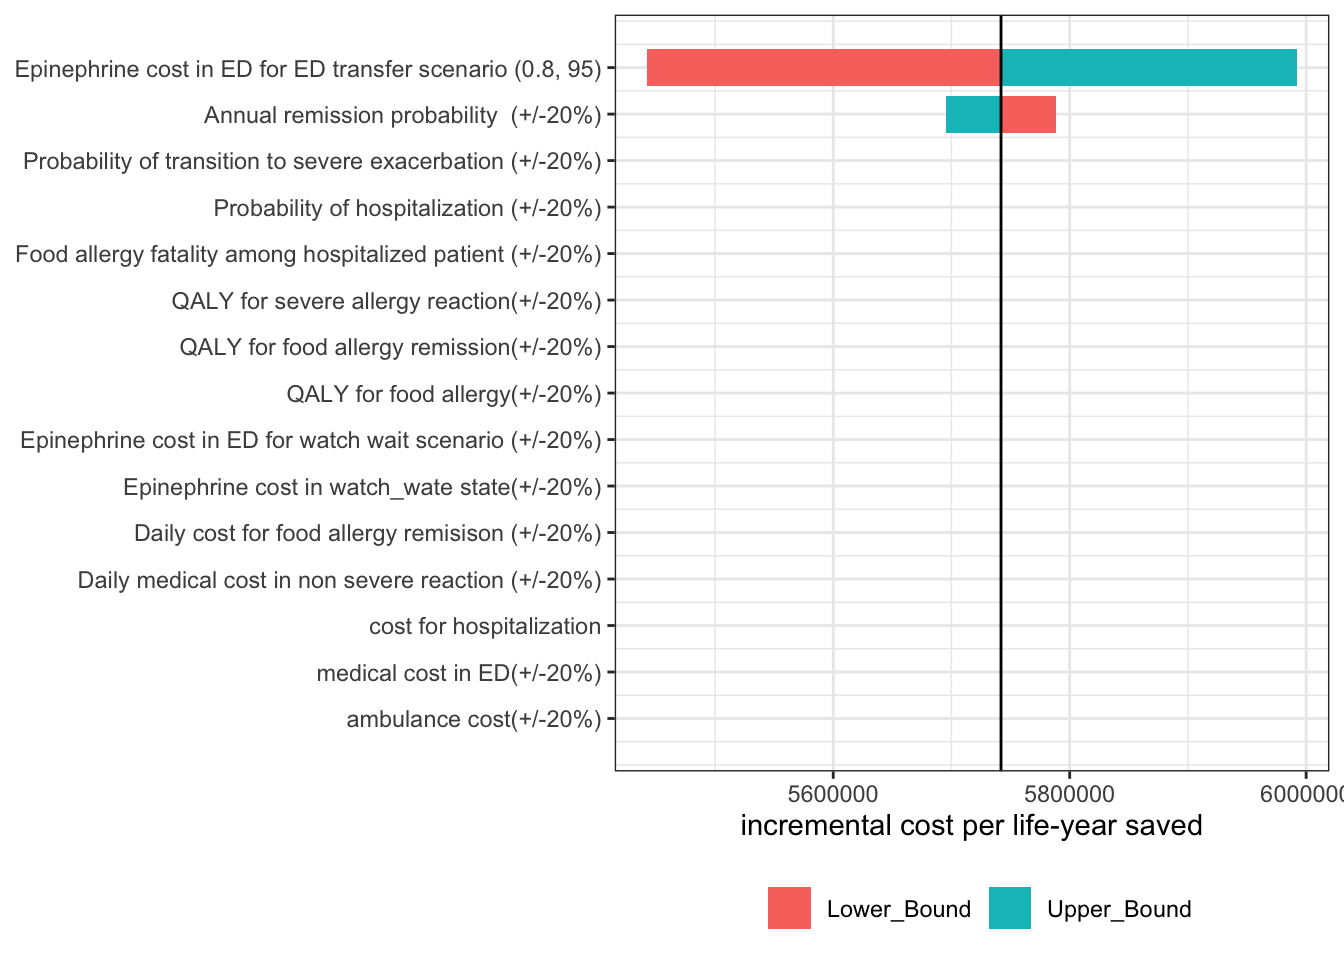
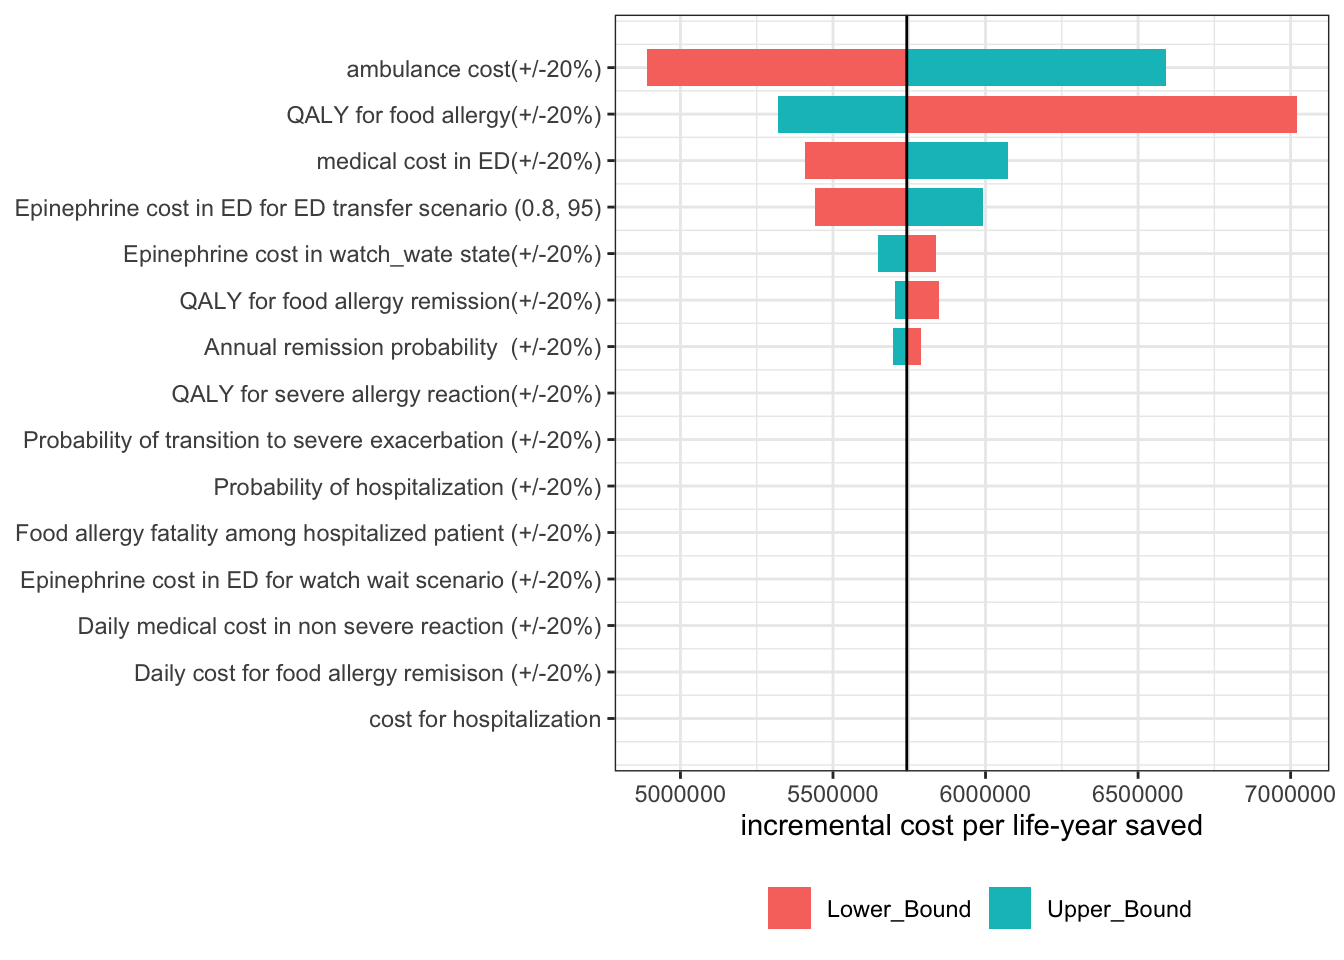
bug fix

diff --git a/Allergy_EAI.html b/Allergy_EAI.html
@@ -330,13 +330,13 @@ The following object is masked from 'package:purrr':
 <span id="cb9-152"><a href="#cb9-152" aria-hidden="true" tabindex="-1"></a></span>
 <span id="cb9-153"><a href="#cb9-153" aria-hidden="true" tabindex="-1"></a><span class="co"># food allergy remission </span></span>
 <span id="cb9-154"><a href="#cb9-154" aria-hidden="true" tabindex="-1"></a>state_ar<span class="ot">&lt;-</span><span class="fu">define_state</span>(</span>
-<span id="cb9-155"><a href="#cb9-155" aria-hidden="true" tabindex="-1"></a>  <span class="at">remission_cost=</span> <span class="dv">513</span><span class="sc">/</span><span class="dv">365</span>,</span>
+<span id="cb9-155"><a href="#cb9-155" aria-hidden="true" tabindex="-1"></a>  <span class="at">remission_cost=</span> remission_cost_all ,</span>
 <span id="cb9-156"><a href="#cb9-156" aria-hidden="true" tabindex="-1"></a>  <span class="at">medical_cost =</span> <span class="dv">0</span>,</span>
 <span id="cb9-157"><a href="#cb9-157" aria-hidden="true" tabindex="-1"></a>  <span class="at">treatment_cost =</span> <span class="dv">0</span>,</span>
 <span id="cb9-158"><a href="#cb9-158" aria-hidden="true" tabindex="-1"></a>  <span class="at">ambulance_cost =</span> <span class="dv">0</span>,</span>
 <span id="cb9-159"><a href="#cb9-159" aria-hidden="true" tabindex="-1"></a>  <span class="at">medical_cost_ED =</span> <span class="dv">0</span>,</span>
 <span id="cb9-160"><a href="#cb9-160" aria-hidden="true" tabindex="-1"></a>  <span class="at">medical_cost_hospitalized =</span><span class="dv">0</span>,</span>
-<span id="cb9-161"><a href="#cb9-161" aria-hidden="true" tabindex="-1"></a>  <span class="at">utility =</span><span class="fl">0.93</span>,</span>
+<span id="cb9-161"><a href="#cb9-161" aria-hidden="true" tabindex="-1"></a>  <span class="at">utility =</span>utility_far,</span>
 <span id="cb9-162"><a href="#cb9-162" aria-hidden="true" tabindex="-1"></a>  <span class="at">cost_total =</span> <span class="fu">discount</span>(remission_cost, <span class="at">r=</span>dr),</span>
 <span id="cb9-163"><a href="#cb9-163" aria-hidden="true" tabindex="-1"></a>  <span class="at">utility_total =</span> <span class="fu">discount</span>(utility, <span class="at">r=</span>dr)</span>
 <span id="cb9-164"><a href="#cb9-164" aria-hidden="true" tabindex="-1"></a>)</span>
@@ -344,12 +344,12 @@ The following object is masked from 'package:purrr':
 <span id="cb9-166"><a href="#cb9-166" aria-hidden="true" tabindex="-1"></a><span class="co"># non-severe reaction</span></span>
 <span id="cb9-167"><a href="#cb9-167" aria-hidden="true" tabindex="-1"></a>state_ns<span class="ot">&lt;-</span><span class="fu">define_state</span>(</span>
 <span id="cb9-168"><a href="#cb9-168" aria-hidden="true" tabindex="-1"></a>  <span class="at">remission_cost=</span> <span class="dv">0</span>,</span>
-<span id="cb9-169"><a href="#cb9-169" aria-hidden="true" tabindex="-1"></a>  <span class="at">medical_cost =</span> <span class="dv">1254</span><span class="sc">/</span><span class="dv">365</span>,</span>
+<span id="cb9-169"><a href="#cb9-169" aria-hidden="true" tabindex="-1"></a>  <span class="at">medical_cost =</span> medical_cost_ns,</span>
 <span id="cb9-170"><a href="#cb9-170" aria-hidden="true" tabindex="-1"></a>  <span class="at">treatment_cost =</span> <span class="dv">0</span>,</span>
 <span id="cb9-171"><a href="#cb9-171" aria-hidden="true" tabindex="-1"></a>  <span class="at">ambulance_cost =</span> <span class="dv">0</span>,</span>
 <span id="cb9-172"><a href="#cb9-172" aria-hidden="true" tabindex="-1"></a>  <span class="at">medical_cost_ED =</span> <span class="dv">0</span>,</span>
 <span id="cb9-173"><a href="#cb9-173" aria-hidden="true" tabindex="-1"></a>  <span class="at">medical_cost_hospitalized =</span><span class="dv">0</span>,</span>
-<span id="cb9-174"><a href="#cb9-174" aria-hidden="true" tabindex="-1"></a>  <span class="at">utility =</span> <span class="fl">0.92</span>,</span>
+<span id="cb9-174"><a href="#cb9-174" aria-hidden="true" tabindex="-1"></a>  <span class="at">utility =</span> utility_fa,</span>
 <span id="cb9-175"><a href="#cb9-175" aria-hidden="true" tabindex="-1"></a>  <span class="at">cost_total =</span> <span class="fu">discount</span>(medical_cost, <span class="at">r=</span>dr),</span>
 <span id="cb9-176"><a href="#cb9-176" aria-hidden="true" tabindex="-1"></a>  <span class="at">utility_total =</span> <span class="fu">discount</span>(utility, <span class="at">r=</span>dr)</span>
 <span id="cb9-177"><a href="#cb9-177" aria-hidden="true" tabindex="-1"></a>)</span>
@@ -357,12 +357,12 @@ The following object is masked from 'package:purrr':
 <span id="cb9-179"><a href="#cb9-179" aria-hidden="true" tabindex="-1"></a><span class="co">#severe allergic reaction-watch and waiting </span></span>
 <span id="cb9-180"><a href="#cb9-180" aria-hidden="true" tabindex="-1"></a>state_sw<span class="ot">&lt;-</span><span class="fu">define_state</span>(</span>
 <span id="cb9-181"><a href="#cb9-181" aria-hidden="true" tabindex="-1"></a>  <span class="at">remission_cost=</span> <span class="dv">0</span>,</span>
-<span id="cb9-182"><a href="#cb9-182" aria-hidden="true" tabindex="-1"></a>  <span class="at">medical_cost =</span> <span class="dv">1254</span><span class="sc">/</span><span class="dv">365</span>,</span>
-<span id="cb9-183"><a href="#cb9-183" aria-hidden="true" tabindex="-1"></a>  <span class="at">treatment_cost =</span> <span class="dv">95</span>,</span>
+<span id="cb9-182"><a href="#cb9-182" aria-hidden="true" tabindex="-1"></a>  <span class="at">medical_cost =</span> medical_cost_ns,</span>
+<span id="cb9-183"><a href="#cb9-183" aria-hidden="true" tabindex="-1"></a>  <span class="at">treatment_cost =</span> treatment_cost_ww,</span>
 <span id="cb9-184"><a href="#cb9-184" aria-hidden="true" tabindex="-1"></a>  <span class="at">ambulance_cost =</span> <span class="dv">0</span>,</span>
 <span id="cb9-185"><a href="#cb9-185" aria-hidden="true" tabindex="-1"></a>  <span class="at">medical_cost_ED =</span> <span class="dv">0</span>,</span>
 <span id="cb9-186"><a href="#cb9-186" aria-hidden="true" tabindex="-1"></a>  <span class="at">medical_cost_hospitalized =</span><span class="dv">0</span>,</span>
-<span id="cb9-187"><a href="#cb9-187" aria-hidden="true" tabindex="-1"></a>  <span class="at">utility =</span> <span class="fl">0.83</span>,</span>
+<span id="cb9-187"><a href="#cb9-187" aria-hidden="true" tabindex="-1"></a>  <span class="at">utility =</span> utility_sr,</span>
 <span id="cb9-188"><a href="#cb9-188" aria-hidden="true" tabindex="-1"></a>  <span class="at">cost_total =</span> <span class="fu">discount</span>(medical_cost<span class="sc">+</span>treatment_cost, <span class="at">r=</span>dr),</span>
 <span id="cb9-189"><a href="#cb9-189" aria-hidden="true" tabindex="-1"></a>  <span class="at">utility_total =</span> <span class="fu">discount</span>(utility, <span class="at">r=</span>dr)</span>
 <span id="cb9-190"><a href="#cb9-190" aria-hidden="true" tabindex="-1"></a>)</span>
@@ -371,14 +371,14 @@ The following object is masked from 'package:purrr':
 <span id="cb9-193"><a href="#cb9-193" aria-hidden="true" tabindex="-1"></a><span class="co">#medical cost =direct cost of food allergy/year+ED medical cost</span></span>
 <span id="cb9-194"><a href="#cb9-194" aria-hidden="true" tabindex="-1"></a>state_sED<span class="ot">&lt;-</span> <span class="fu">define_state</span>(</span>
 <span id="cb9-195"><a href="#cb9-195" aria-hidden="true" tabindex="-1"></a>  <span class="at">remission_cost=</span> <span class="dv">0</span>,</span>
-<span id="cb9-196"><a href="#cb9-196" aria-hidden="true" tabindex="-1"></a>  <span class="at">medical_cost =</span> <span class="dv">1254</span><span class="sc">/</span><span class="dv">365</span>, </span>
+<span id="cb9-196"><a href="#cb9-196" aria-hidden="true" tabindex="-1"></a>  <span class="at">medical_cost =</span> medical_cost_ns, </span>
 <span id="cb9-197"><a href="#cb9-197" aria-hidden="true" tabindex="-1"></a>  <span class="at">treatment_cost =</span> <span class="fu">dispatch_strategy</span>(</span>
 <span id="cb9-198"><a href="#cb9-198" aria-hidden="true" tabindex="-1"></a>    <span class="at">ED_transfer =</span> treatment_cost_ED,</span>
-<span id="cb9-199"><a href="#cb9-199" aria-hidden="true" tabindex="-1"></a>    <span class="at">watch_wait =</span> <span class="fl">0.8</span>),</span>
-<span id="cb9-200"><a href="#cb9-200" aria-hidden="true" tabindex="-1"></a>  <span class="at">ambulance_cost =</span> <span class="dv">848</span>,</span>
-<span id="cb9-201"><a href="#cb9-201" aria-hidden="true" tabindex="-1"></a>  <span class="at">medical_cost_ED =</span> <span class="dv">331</span>,</span>
+<span id="cb9-199"><a href="#cb9-199" aria-hidden="true" tabindex="-1"></a>    <span class="at">watch_wait =</span> treatment_cost_ww_ED),</span>
+<span id="cb9-200"><a href="#cb9-200" aria-hidden="true" tabindex="-1"></a>  <span class="at">ambulance_cost =</span> ambulance_cost_ED_ED,</span>
+<span id="cb9-201"><a href="#cb9-201" aria-hidden="true" tabindex="-1"></a>  <span class="at">medical_cost_ED =</span> medical_cost_ED_ED,</span>
 <span id="cb9-202"><a href="#cb9-202" aria-hidden="true" tabindex="-1"></a>  <span class="at">medical_cost_hospitalized =</span><span class="dv">0</span>,</span>
-<span id="cb9-203"><a href="#cb9-203" aria-hidden="true" tabindex="-1"></a>  <span class="at">utility =</span><span class="fl">0.83</span>,</span>
+<span id="cb9-203"><a href="#cb9-203" aria-hidden="true" tabindex="-1"></a>  <span class="at">utility =</span>utility_sr,</span>
 <span id="cb9-204"><a href="#cb9-204" aria-hidden="true" tabindex="-1"></a>  <span class="at">cost_total =</span> <span class="fu">discount</span>(medical_cost <span class="sc">+</span> treatment_cost <span class="sc">+</span> ambulance_cost <span class="sc">+</span> medical_cost_ED , <span class="at">r=</span>dr),</span>
 <span id="cb9-205"><a href="#cb9-205" aria-hidden="true" tabindex="-1"></a>  <span class="at">utility_total =</span> <span class="fu">discount</span>(utility, <span class="at">r=</span>dr)</span>
 <span id="cb9-206"><a href="#cb9-206" aria-hidden="true" tabindex="-1"></a>)</span>
@@ -390,8 +390,8 @@ The following object is masked from 'package:purrr':
 <span id="cb9-212"><a href="#cb9-212" aria-hidden="true" tabindex="-1"></a>  <span class="at">treatment_cost =</span> <span class="dv">0</span>,</span>
 <span id="cb9-213"><a href="#cb9-213" aria-hidden="true" tabindex="-1"></a>  <span class="at">ambulance_cost =</span> <span class="dv">0</span>,</span>
 <span id="cb9-214"><a href="#cb9-214" aria-hidden="true" tabindex="-1"></a>  <span class="at">medical_cost_ED =</span> <span class="dv">0</span>,</span>
-<span id="cb9-215"><a href="#cb9-215" aria-hidden="true" tabindex="-1"></a>  <span class="at">medical_cost_hospitalized =</span><span class="dv">1866</span>,</span>
-<span id="cb9-216"><a href="#cb9-216" aria-hidden="true" tabindex="-1"></a>  <span class="at">utility =</span> <span class="fl">0.83</span>,</span>
+<span id="cb9-215"><a href="#cb9-215" aria-hidden="true" tabindex="-1"></a>  <span class="at">medical_cost_hospitalized =</span>medical_cost_hospital,</span>
+<span id="cb9-216"><a href="#cb9-216" aria-hidden="true" tabindex="-1"></a>  <span class="at">utility =</span>utility_sr,</span>
 <span id="cb9-217"><a href="#cb9-217" aria-hidden="true" tabindex="-1"></a>  <span class="at">cost_total =</span> <span class="fu">discount</span>(medical_cost_hospitalized,<span class="at">r=</span>dr),</span>
 <span id="cb9-218"><a href="#cb9-218" aria-hidden="true" tabindex="-1"></a>  <span class="at">utility_total =</span> <span class="fu">discount</span>(utility, <span class="at">r=</span>dr)</span>
 <span id="cb9-219"><a href="#cb9-219" aria-hidden="true" tabindex="-1"></a>)</span>
@@ -455,7 +455,7 @@ The following object is masked from 'package:purrr':
 <span id="cb9-277"><a href="#cb9-277" aria-hidden="true" tabindex="-1"></a>                     <span class="at">state_faf=</span> <span class="dv">0</span>,</span>
 <span id="cb9-278"><a href="#cb9-278" aria-hidden="true" tabindex="-1"></a>                     <span class="at">state_acm=</span><span class="dv">0</span>)</span>
 <span id="cb9-279"><a href="#cb9-279" aria-hidden="true" tabindex="-1"></a></span>
-<span id="cb9-280"><a href="#cb9-280" aria-hidden="true" tabindex="-1"></a><span class="co">#run model for X10 mortality in wath and wait </span></span>
+<span id="cb9-280"><a href="#cb9-280" aria-hidden="true" tabindex="-1"></a><span class="co">#run model for X10 mortality in watch and wait </span></span>
 <span id="cb9-281"><a href="#cb9-281" aria-hidden="true" tabindex="-1"></a>allergy_mod_10<span class="ot">&lt;-</span><span class="fu">run_model</span>(</span>
 <span id="cb9-282"><a href="#cb9-282" aria-hidden="true" tabindex="-1"></a>                <span class="at">parameters =</span> par_allerg_10,</span>
 <span id="cb9-283"><a href="#cb9-283" aria-hidden="true" tabindex="-1"></a>                <span class="at">ED_transfer =</span> strategy_ED,</span>
@@ -468,8 +468,8 @@ The following object is masked from 'package:purrr':
 <span id="cb9-290"><a href="#cb9-290" aria-hidden="true" tabindex="-1"></a>)</span></code><button title="Copy to Clipboard" class="code-copy-button"><i class="bi"></i></button></pre></div>
 </div>
 </section>
-<section id="build-the-societa-model" class="level3">
-<h3 class="anchored" data-anchor-id="build-the-societa-model">Build the societa model</h3>
+<section id="build-the-societal-model" class="level3">
+<h3 class="anchored" data-anchor-id="build-the-societal-model">Build the societal model</h3>
 <div class="cell">
 <div class="sourceCode cell-code" id="cb10"><pre class="sourceCode r code-with-copy"><code class="sourceCode r"><span id="cb10-1"><a href="#cb10-1" aria-hidden="true" tabindex="-1"></a><span class="do">## societal perspective </span></span>
 <span id="cb10-2"><a href="#cb10-2" aria-hidden="true" tabindex="-1"></a><span class="co"># food allergy remission </span></span>
@@ -1113,11 +1113,13 @@ the `.groups` argument.</code></pre>
 <span id="cb40-18"><a href="#cb40-18" aria-hidden="true" tabindex="-1"></a>  </span>
 <span id="cb40-19"><a href="#cb40-19" aria-hidden="true" tabindex="-1"></a>)</span>
 <span id="cb40-20"><a href="#cb40-20" aria-hidden="true" tabindex="-1"></a></span>
-<span id="cb40-21"><a href="#cb40-21" aria-hidden="true" tabindex="-1"></a><span class="co">#run sensitivity analysis </span></span>
-<span id="cb40-22"><a href="#cb40-22" aria-hidden="true" tabindex="-1"></a>allergy_dsa<span class="ot">&lt;-</span><span class="fu">run_dsa</span>(</span>
-<span id="cb40-23"><a href="#cb40-23" aria-hidden="true" tabindex="-1"></a>  <span class="at">model =</span> allergy_mod_10,</span>
-<span id="cb40-24"><a href="#cb40-24" aria-hidden="true" tabindex="-1"></a>  <span class="at">dsa =</span> allergy_sa</span>
-<span id="cb40-25"><a href="#cb40-25" aria-hidden="true" tabindex="-1"></a>)</span></code><button title="Copy to Clipboard" class="code-copy-button"><i class="bi"></i></button></pre></div>
+<span id="cb40-21"><a href="#cb40-21" aria-hidden="true" tabindex="-1"></a></span>
+<span id="cb40-22"><a href="#cb40-22" aria-hidden="true" tabindex="-1"></a></span>
+<span id="cb40-23"><a href="#cb40-23" aria-hidden="true" tabindex="-1"></a><span class="co">#run sensitivity analysis </span></span>
+<span id="cb40-24"><a href="#cb40-24" aria-hidden="true" tabindex="-1"></a>allergy_dsa<span class="ot">&lt;-</span><span class="fu">run_dsa</span>(</span>
+<span id="cb40-25"><a href="#cb40-25" aria-hidden="true" tabindex="-1"></a>  <span class="at">model =</span> allergy_mod_10,</span>
+<span id="cb40-26"><a href="#cb40-26" aria-hidden="true" tabindex="-1"></a>  <span class="at">dsa =</span> allergy_sa</span>
+<span id="cb40-27"><a href="#cb40-27" aria-hidden="true" tabindex="-1"></a>)</span></code><button title="Copy to Clipboard" class="code-copy-button"><i class="bi"></i></button></pre></div>
 <div class="cell-output cell-output-stderr">
 <pre><code>Running DSA on strategy 'ED_transfer'...</code></pre>
 </div>
@@ -1209,21 +1211,21 @@ the `.groups` argument.</code></pre>
 # A tibble: 15 × 5
    .par_names            Lower_Bound Upper_Bound UL_Difference parameter        
    &lt;chr&gt;                       &lt;dbl&gt;       &lt;dbl&gt;         &lt;dbl&gt; &lt;chr&gt;            
- 1 ambulance_cost_ED_ED     5741910.    5741910.            0  ambulance cost(+…
- 2 medical_cost_ED_ED       5741910.    5741910.            0  medical cost in …
- 3 medical_cost_hospital    5741910.    5741910.            0  cost for hospita…
- 4 medical_cost_ns          5741910.    5741910.            0  Daily medical co…
- 5 p_ns_ar                  5788345.    5695151.        93193. Annual remission…
- 6 p_severe                 5741670.    5742155.          485. Probability of t…
- 7 p_sh                     5741715.    5742105.          390. Probability of h…
- 8 p_sh_faf                 5741720.    5742099.          379. Food allergy fat…
- 9 remission_cost_all       5741910.    5741910.            0  Daily cost for f…
-10 treatment_cost_ED        5442630.    5992185.       549555. Epinephrine cost…
-11 treatment_cost_ww        5741910.    5741910.            0  Epinephrine cost…
-12 treatment_cost_ww_ED     5741910.    5741910.            0  Epinephrine cost…
-13 utility_fa               5741910.    5741910.            0  QALY for food al…
-14 utility_far              5741910.    5741910.            0  QALY for food al…
-15 utility_sr               5741910.    5741910.            0  QALY for severe …
+ 1 ambulance_cost_ED_ED     4890998.    6592822.  1701824.     ambulance cost(+…
+ 2 medical_cost_ED_ED       5409773.    6074047.   664273.     medical cost in …
+ 3 medical_cost_hospital    5741910.    5741910.        0.0183 cost for hospita…
+ 4 medical_cost_ns          5741910.    5741911.        1.12   Daily medical co…
+ 5 p_ns_ar                  5788345.    5695151.    93193.     Annual remission…
+ 6 p_severe                 5741670.    5742155.      485.     Probability of t…
+ 7 p_sh                     5741715.    5742105.      390.     Probability of h…
+ 8 p_sh_faf                 5741720.    5742099.      379.     Food allergy fat…
+ 9 remission_cost_all       5741910.    5741910.        0.0451 Daily cost for f…
+10 treatment_cost_ED        5442630.    5992185.   549555.     Epinephrine cost…
+11 treatment_cost_ww        5837236.    5646584.   190652.     Epinephrine cost…
+12 treatment_cost_ww_ED     5742041.    5741779.      261.     Epinephrine cost…
+13 utility_fa               7020598.    5320581.  1700017.     QALY for food al…
+14 utility_far              5846089.    5703658.   142431.     QALY for food al…
+15 utility_sr               5742174.    5741646.      527.     QALY for severe …
 
 [[2]]</code></pre>
 </div>
